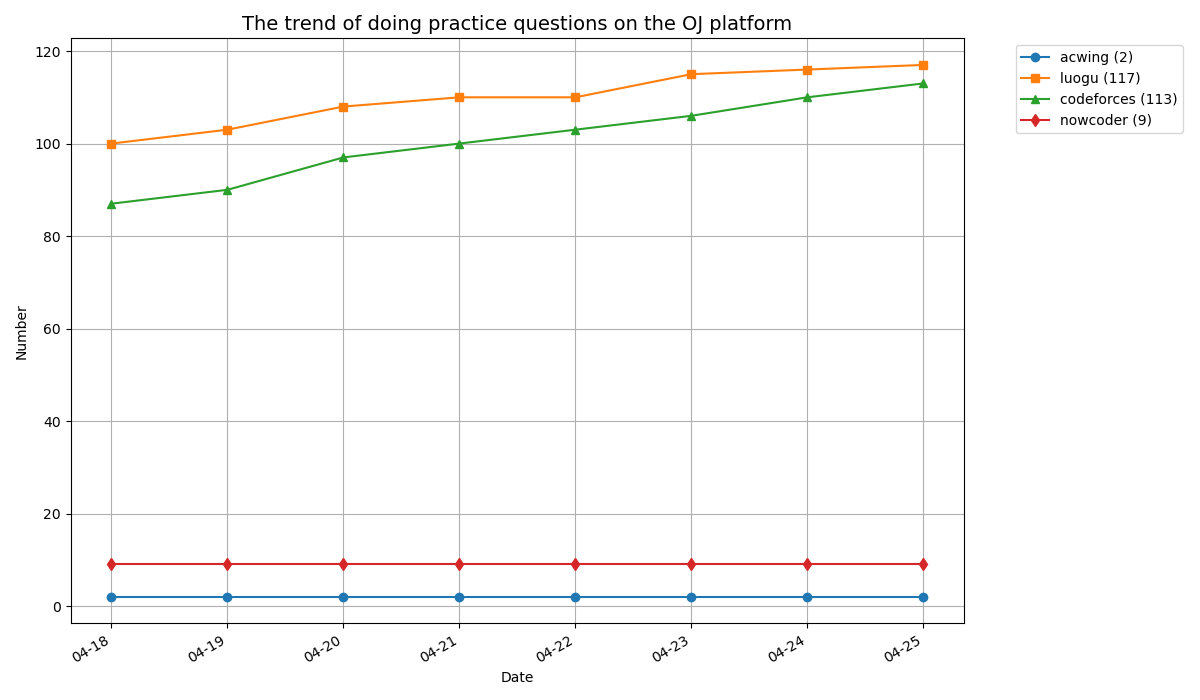
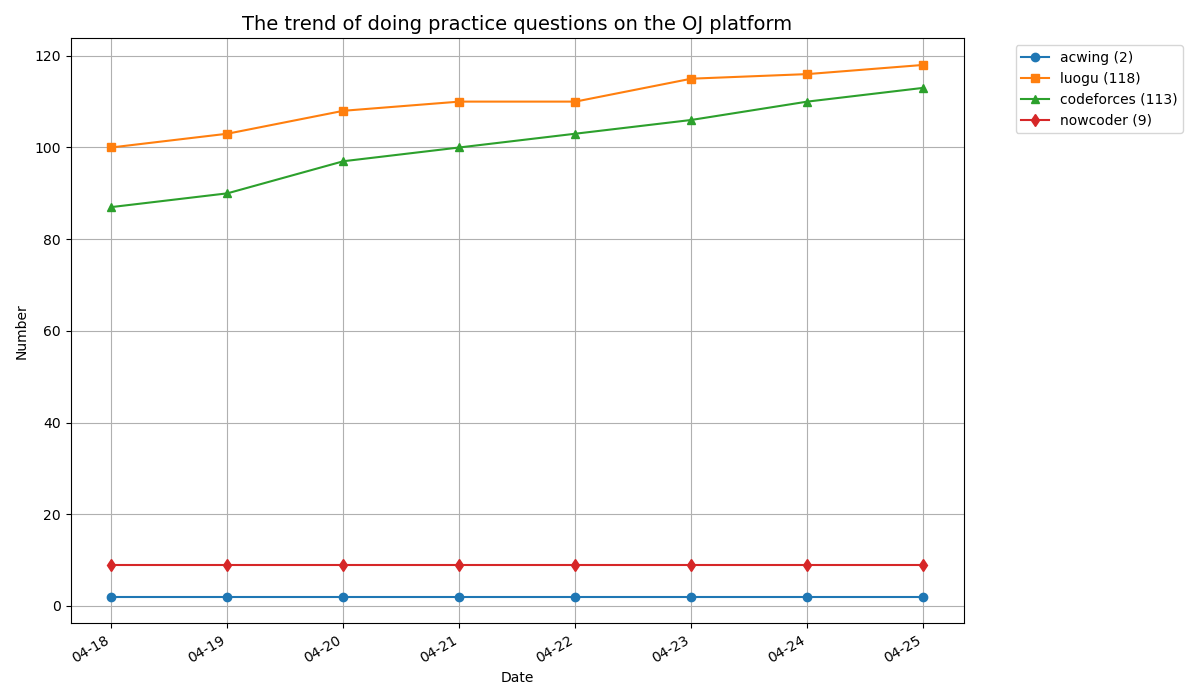
update

diff --git a/luogu/P1149/main.cpp b/luogu/P1149/main.cpp
@@ -1,0 +1,71 @@
+// #include <algorithm>
+// #include <iostream>
+// #include <string>
+// #include <utility>
+// #include <vector>
+// #include <numeric>
+// #include <limits>
+// #include <iomanip>
+// #include <cmath>
+// #include <set>
+#include <bits/stdc++.h>
+using namespace std;
+
+#define DEBUG
+#ifdef DEBUG
+template <typename Container>
+void PrintCon(const Container &cont)
+{
+    std::cout << "{ ";
+    if (!cont.empty())
+    {
+        auto it = cont.begin();
+        std::cout << "\033[33m" << *it++ << "\033[0m";
+        for (; it != cont.end(); ++it)
+            std::cout << " | " << "\033[33m" << *it << "\033[0m";
+    }
+    std::cout << " }" << std::endl;
+}
+
+template <typename... Args>
+void LOG(Args &&...values)
+{
+    ((std::cout << "\033[33m" << std::forward<Args>(values) << "\033[0m" << " "), ...);
+    std::cout << std::endl;
+}
+
+#else
+template <typename... Args>
+void LOG(Args &...args);
+
+template <typename Container>
+void PrintCon(const Container &cont);
+#endif
+
+#define ALL(x) (x).begin(), (x).end()
+using ll = long long int;
+using ull = unsigned long long int;
+using PII = pair<int, int>;
+
+int a[] = {6, 2, 5, 5, 4, 5, 6, 3, 7, 6};
+int f(int n)
+{
+    if (n < 10)
+        return a[n];
+    return f(n / 10) + a[n % 10];
+}
+int main()
+{
+    ios::sync_with_stdio(false);
+    cin.tie(nullptr);
+    int n;
+    cin>>n;
+    int cnt =0;
+    for(int i = 0;i<=1000;i++){
+        for(int j = 0;j<=1000;j++){
+            cnt += (f(i)+f(j)+f(i+j)+4==n);
+        }
+    }
+    cout<<cnt<<endl;
+    return 0;
+}
